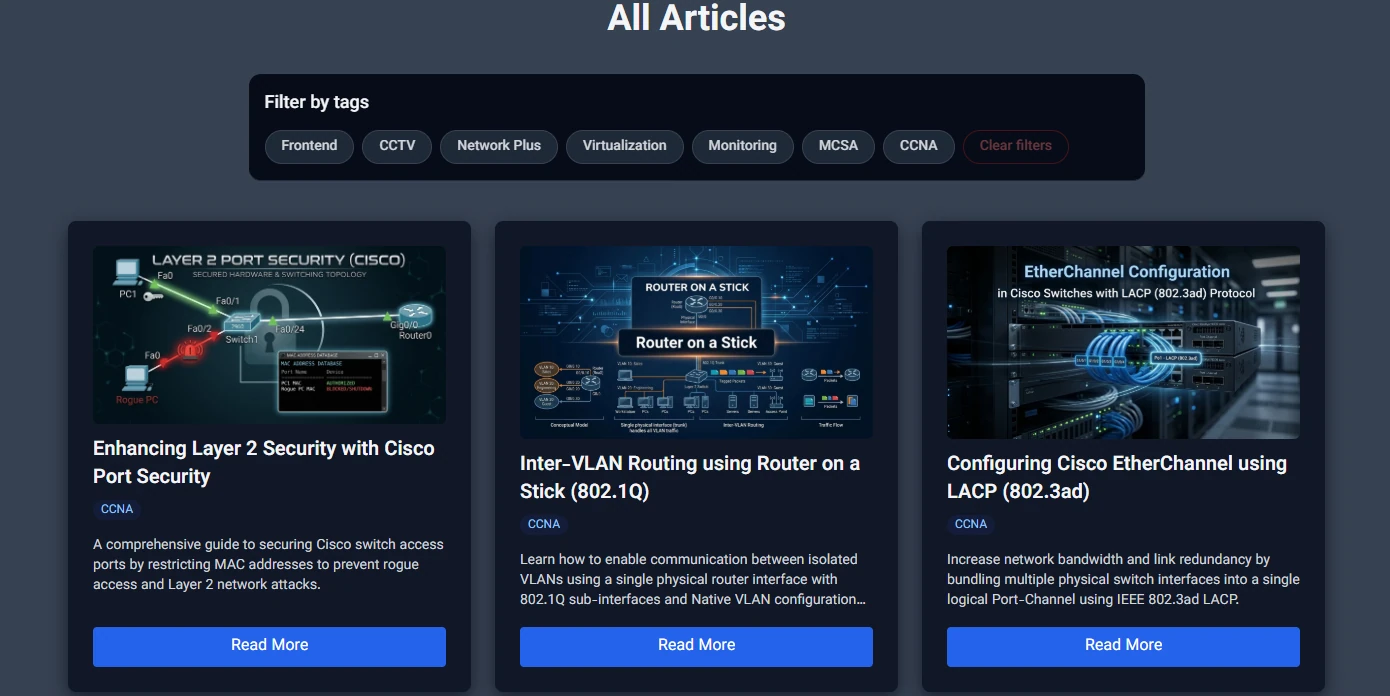
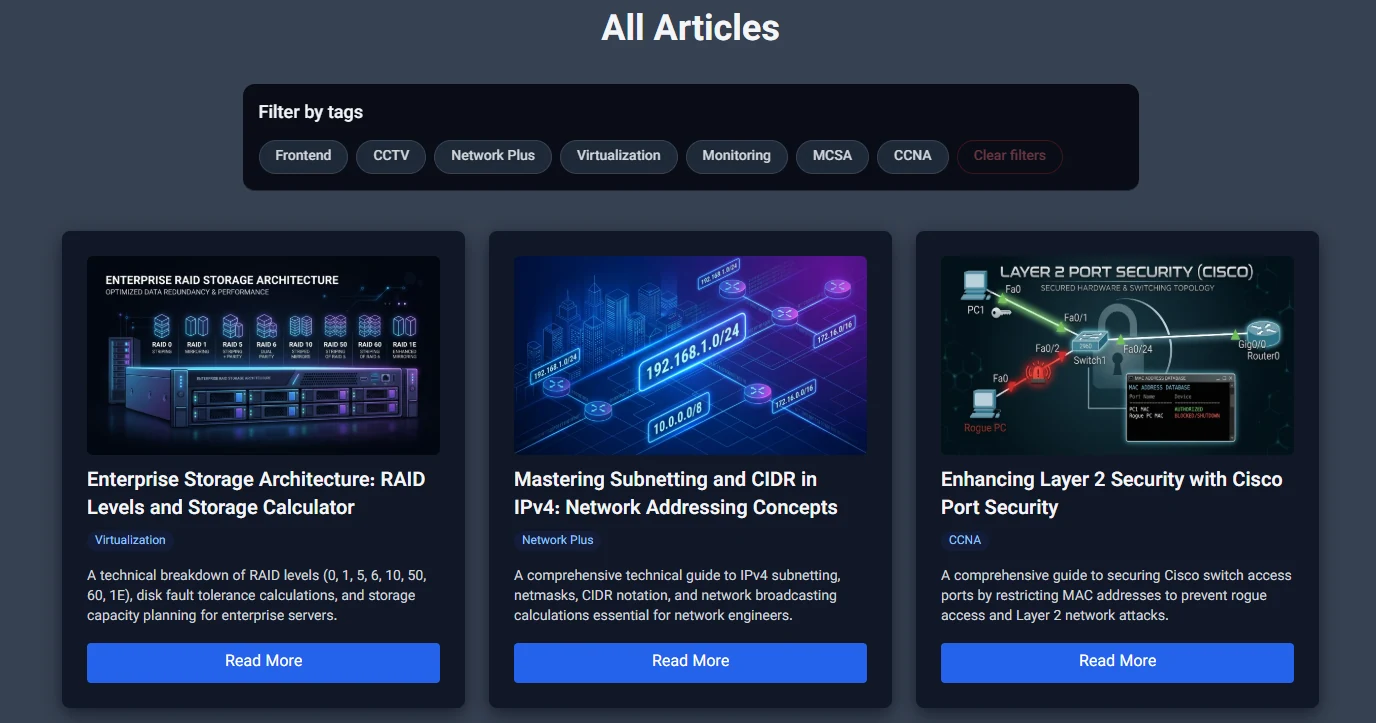
fix: resolve UI white line & update README file
- On laptop and tablet screen sizes, a white line appeared on the left for the English version and on the right for the Persian version but this issue has now been resolved.
- The image related to the articles page in the README file has been updated.
- add Gemini API to README tech stack.

Changed region(s): [[0.0312, 0.3319, 0.9688, 0.9957], [0.1562, 0.0905, 0.8438, 0.2716], [0.4375, 0.0, 0.5625, 0.0603]]

diff --git a/src/style.css b/src/style.css
@@ -75,3 +75,7 @@ body {
 .dark footer {
   @apply bg-gray-900;
 }
+
+.w-full {
+    width: 99%;
+}

diff --git a/README.md b/README.md
@@ -98,6 +98,9 @@ The website features a responsive interface, Persian (RTL) and English (LTR) lan
   - Telegram Bot API
   - Resend Email API
 
+- **AI & Chatbot:**
+  - Google Gemini API
+
 ---
 
 ## 📂 Project Categories
